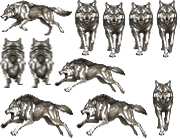
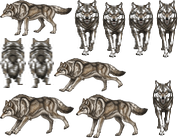
feat(wolf): rigged side-view walk/attack frames with distinct poses
Claude-Session: https://claude.ai/code/session_01DrFoPcc44FDsca7BfrWMBD

Changed region(s): [[0.0, 0.4, 0.8333, 1.0], [0.0, 0.0, 0.4167, 0.2571], [0.0, 0.2, 0.0556, 0.2286]]

diff --git a/tools/wolf_rig/build_side_frames.py b/tools/wolf_rig/build_side_frames.py
@@ -1,0 +1,89 @@
+"""Render rigged side-view poses and write them into the HD wolf sheets (run from repo root)."""
+import sys, os
+sys.path.insert(0, 'tools/wolf_rig')
+import numpy as np
+from PIL import Image
+import rig
+
+R = 'app/src/midlet/resources/'
+HD = R + 'hd/'
+THR = 20
+# sheet -> {frame: (rect, pose, bob, tail, tilt)}
+POSES = {
+ '270': {
+  0:  ((0, 0, 74, 42),    dict(fn=28, ff=20, bn=-28, bf=-20), -8, 6, 0),
+  8:  ((76, 56, 70, 42),  dict(fn=-10, ff=-5, bn=15, bf=22), 14, -6, 0),
+  10: ((0, 102, 74, 40),  dict(fn=22, ff=30, bn=5, bf=-10), 0, 8, 0),
+  11: ((76, 102, 72, 42), dict(fn=-20, ff=-28, bn=-22, bf=8), 6, -4, 0),
+ },
+ '271': {
+  0: ((0, 0, 72, 36),    dict(fn=-8, ff=-12, bn=10, bf=16), 22, -10, 3),
+  7: ((54, 58, 72, 36),  dict(fn=30, ff=22, bn=-32, bf=-24), -6, 10, 4),
+  8: ((0, 94, 74, 44),   dict(fn=36, ff=28, bn=-18, bf=-10), 8, 14, 9),
+  9: ((76, 94, 72, 44),  dict(fn=6, ff=0, bn=-10, bf=-2), 4, 0, 2),
+ },
+}
+SUFFIXES = ['', '_t0', '_t8', '_t9', '_t10']
+# per-species tint (kept equal to integrate_hd_wolf.py)
+TONE = {'': (None, 0.0),
+        '_t0': (((0.35, 1.15), (0.35, 1.05), (0.35, 0.90)), -0.05),
+        '_t8': (((0.40, 0.85), (0.40, 0.85), (0.40, 0.90)), 0.18),
+        '_t9': (((0.50, 0.60), (0.50, 0.55), (0.50, 0.65)), 0.42),
+        '_t10': (((0.50, 0.60), (0.50, 0.55), (0.50, 0.65)), 0.42)}
+
+
+def tone(im, tint, darken):
+    a = np.asarray(im).astype(np.float64)
+    r, g, b, al = a[..., 0], a[..., 1], a[..., 2], a[..., 3]
+    if tint:
+        lum = r * .299 + g * .587 + b * .114
+        (tr, tg, tb) = tint
+        r = r * (1 - tr[0]) + lum * tr[1] * tr[0]
+        g = g * (1 - tg[0]) + lum * tg[1] * tg[0]
+        b = b * (1 - tb[0]) + lum * tb[1] * tb[0]
+    k = 1 - darken
+    out = np.stack([r * k, g * k, b * k, al], -1)
+    return Image.fromarray(np.clip(out, 0, 255).astype(np.uint8), 'RGBA')
+
+
+def frame(pose, bob, tail, tilt, rect, orig2x):
+    x, y, w, h = rect
+    img = rig.render(pose, bob, tail, tilt)
+    bb = img.getchannel('A').point(lambda v: 255 if v > THR else 0).getbbox()
+    img = img.crop(bb)
+    oa = np.asarray(orig2x)[y:y + h, x:x + w, 3]
+    ys, xs = np.nonzero(oa > THR)
+    x0, x1, y0, y1 = xs.min(), xs.max() + 1, ys.min(), ys.max() + 1
+    # downscale in two steps for clean antialiasing
+    big = img.resize((max((x1 - x0) * 4, 1), max((y1 - y0) * 4, 1)), Image.LANCZOS)
+    small = big.resize((x1 - x0, y1 - y0), Image.LANCZOS)
+    out = Image.new('RGBA', (w, h), (0, 0, 0, 0))
+    out.paste(small, (x0, y0))
+    return out
+
+
+def main():
+    cache = {}
+    for n, frames in POSES.items():
+        o = Image.open(R + n + '.png').convert('RGBA')
+        orig2x = o.resize((o.width * 2, o.height * 2), Image.NEAREST)
+        for k, (rect, pose, bob, tail, tilt) in frames.items():
+            cache[(n, k)] = (rect, frame(pose, bob, tail, tilt, rect, orig2x))
+    for n in POSES:
+        for suf in SUFFIXES:
+            path = f'{HD}{n}{suf}.png'
+            sheet = Image.open(path).convert('RGBA')
+            for (nn, k), (rect, fr) in cache.items():
+                if nn != n:
+                    continue
+                x, y, w, h = rect
+                t = tone(fr, *TONE[suf]) if suf else fr
+                blank = Image.new('RGBA', (w, h), (0, 0, 0, 0))
+                sheet.paste(blank, (x, y))
+                sheet.alpha_composite(t, (x, y))
+            sheet.save(path)
+            print('wrote', path)
+
+
+if __name__ == '__main__':
+    main()

diff --git a/tools/wolf_rig/rig.py b/tools/wolf_rig/rig.py
@@ -33,7 +33,7 @@ def rot(layer, key, ang):
     return layer.rotate(-ang, resample=Image.BICUBIC, center=PIV[key])
 
 
-def render(pose, bob=0, tail=0):
+def render(pose, bob=0, tail=0, tilt=0):
     c = Image.new('RGBA', (SZ[0] + 600, SZ[1] + 300), (0, 0, 0, 0))
     ox, oy = 300, 150
     def put(im, dy=0):
@@ -44,4 +44,6 @@ def render(pose, bob=0, tail=0):
     put(body, bob)
     put(rot(L['back_near'], 'back_near', pose['bn']), 0)
     put(rot(L['front_near'], 'front_near', pose['fn']), 0)
+    if tilt:
+        c = c.rotate(tilt, resample=Image.BICUBIC, center=(ox + 800, oy + 500))
     return c
